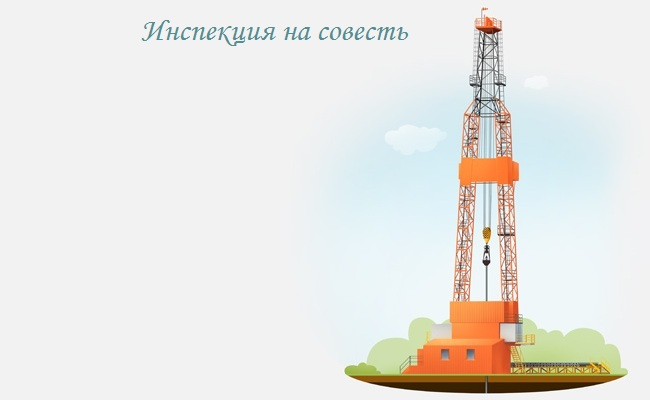
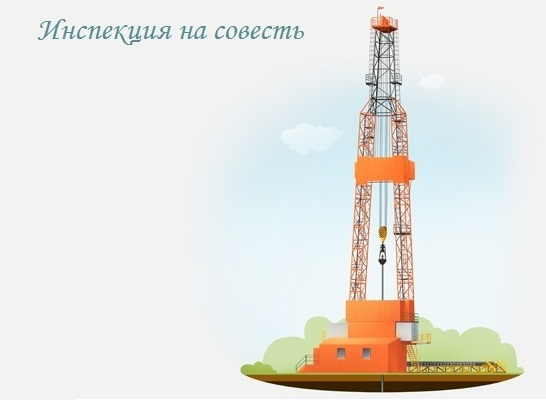
Картинка на главной странице

Changed region(s): [[0.4359, 0.0, 0.9652, 0.99], [0.0623, 0.03, 0.6227, 0.12]]

diff --git a/index.html b/index.html
@@ -44,7 +44,7 @@
 </div>
 	</div>
 	<div class="g-right" style="width:650px;">
-	<p style="margin-left:0px;"><img src="images/main.jpg" alt="" width="650" height="465" /></p>
+	<p style="margin-left:0px;"><img src="images/main.jpg" alt="" width="620" height="465" /></p>
 <p>&nbsp;</p>
 	</div>
 	</div>
